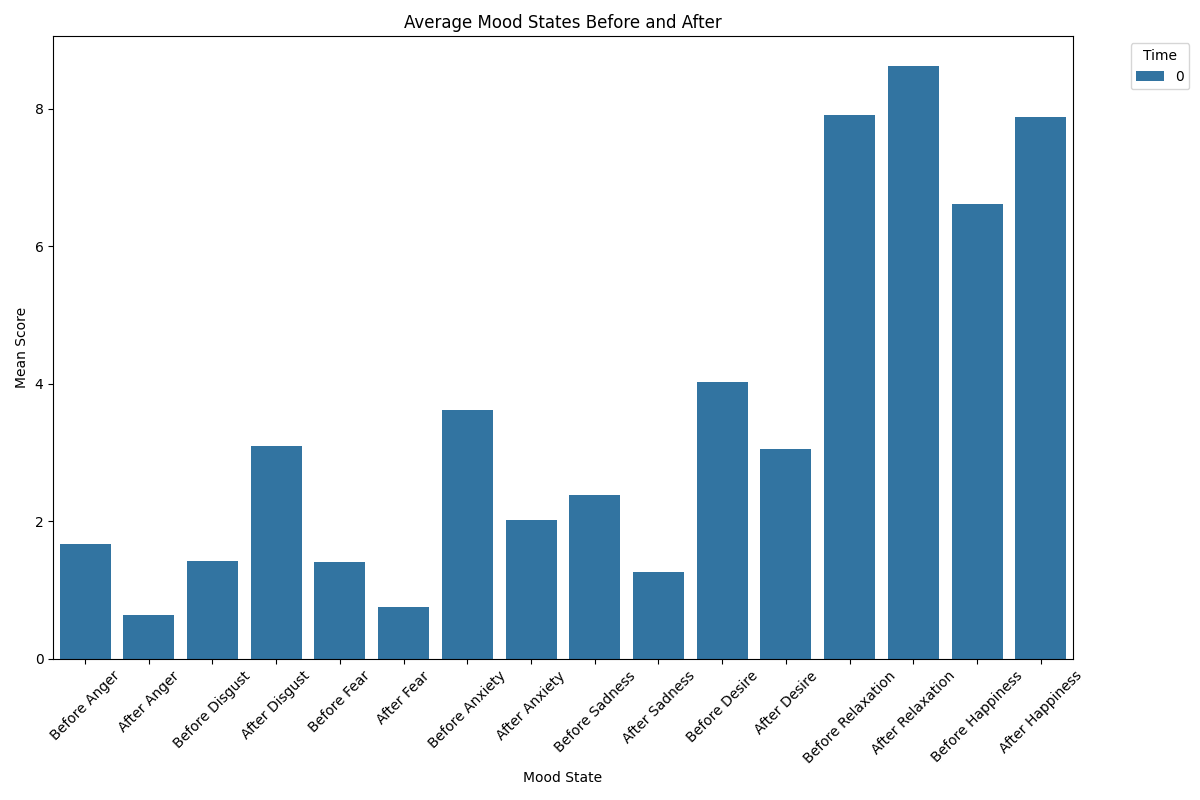
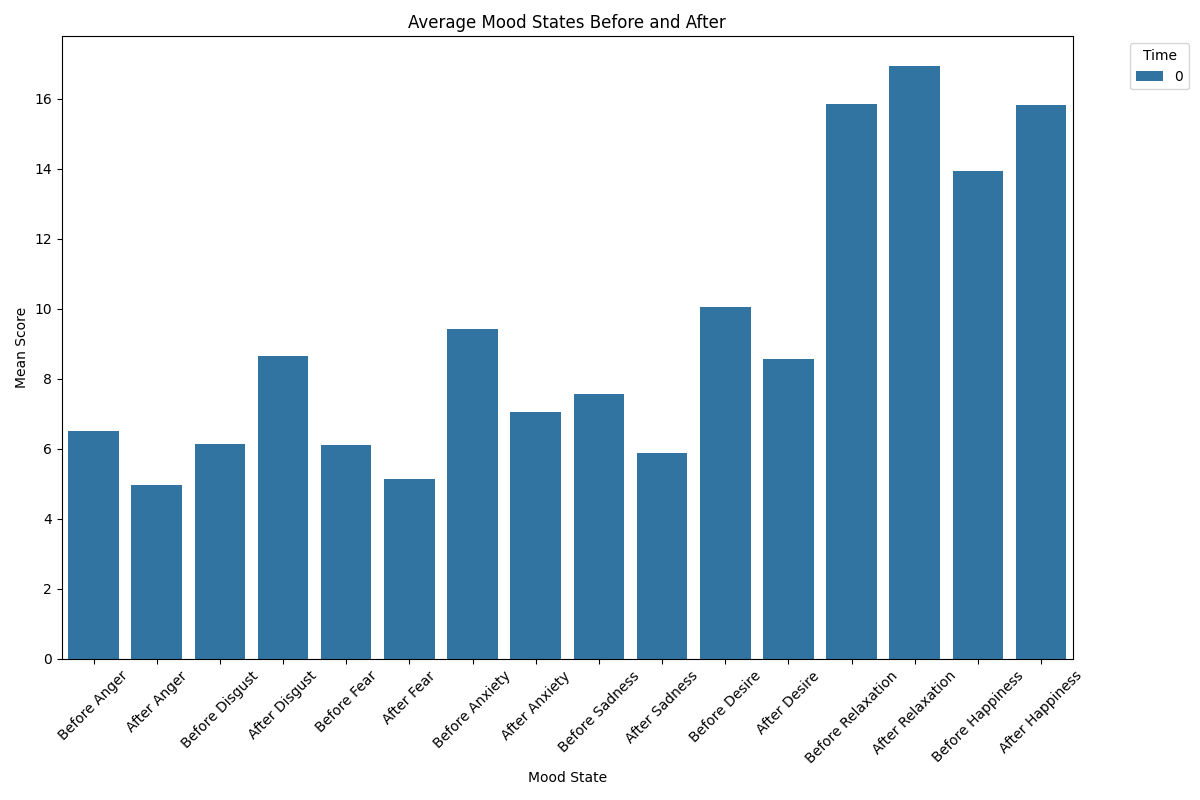
update

diff --git a/POMS/transform_scores.py b/POMS/transform_scores.py
@@ -17,36 +17,21 @@ def convert_poms_values(value):
         return value 
     
 def convert_deq_values(value):
-    print("Input value:", value)
     if value ==  "Not at all":
-        return 0
-    elif value == "Slightly":
         return 1
+    elif value == "Slightly":
+        return 2.5
     elif value == "Moderatly":
-        return 2
-    elif value == "Quite a bit":
-        return 3
-    elif value == "Very much":
         return 4
+    elif value == "Quite a bit":
+        return 5.5
+    elif value == "Very much":
+        return 7
     else:
-        print("Unexpected value:", value)
         return value
 
-def convert_psq_values(value):
-    if value == "Almost never ":
-        return 0
-    elif value == "Rarely":
-        return 1
-    elif value == "Sometimes":
-        return 2
-    elif value == "Often":
-        return 3
-    elif value == "Always":
-        return 4
-    else:
-        return int(value)
 
-    
+
 
 # Function to convert poms values
 def convert_poms_columns(df):
@@ -60,13 +45,6 @@ def convert_deq_columns(df):
     for column in df.columns:
         if "DEQ Before >>" in column or "DEQ After >>" in column:
             df[column] = df[column].apply(convert_deq_values)
-    return df
-
-# Function to convert psq values
-def convert_psq_columns(df):
-    for column in df.columns:
-        if "PSQ20 >>" in column:
-            df[column] = df[column].apply(convert_psq_values)
     return df
 
 
@@ -149,42 +127,6 @@ def calculate_deq_scores(df):
     
     return participant_scores_deq
 
-# Function to calculate score with mapping psq
-def calculate_psq_scores(df):
-    score_mappings = {
-        'Worries': ['You fear you may not manage to attain your goals', 'You feel frustrated', 'Your problems seem to be piling up', 'You have many worries', 'You are afraid for the future'],
-        'Tension': ['You feel rested', 'You feel calm', 'You feel tense', 'You feel mentally exhausted', 'You have trouble relaxing'],
-        'Joy': ['You feel you’re doing things you really like', 'You are full of energy', 'You feel safe and protected', 'You enjoy yourself', 'You are lighthearted'],
-        'Demands': ['You feel that too many demands are being made on you', 'You have too many things to do', 'You feel you’re in a hurry', 'You have enough time for yourself', 'You feel under pressure from deadlines']
-    }
-    
-    # Seperate data to store before and after scores 
-    participant_scores_psq = pd.DataFrame(columns=['Participant', 'Condition', 
-                                                    'Worries', 'Tension', 
-                                                    'Joy', 'Demands'])
-
-    print("Columns before assignment:")
-    print(participant_scores_psq.columns)
-    
-    # Loop through participants and calculate scores
-    for index, participant in df.iterrows():
-        # Score calculation logic
-        print("Columns after assignment:")
-        print(participant_scores_psq.columns)
-
-    for index, participant in df.iterrows():
-        participant_scores_psq.loc[index] = [index + 1, participant['Condition']] + [0] * (len(participant_scores_psq.columns) - 2)
-            
-        for score, mood_states in score_mappings.items():
-            mood_state_score = 0
-
-            for col in df.columns:
-                if "PSQ20 >>" in col and col.split(" >> ")[1] in mood_states:
-                    mood_state_score+= convert_psq_values(participant[col])
-            participant_scores_psq.at[index, f' {score}'] = mood_state_score
-
-    
-    return participant_scores_psq
 
 folder_path = 'POMS'
 input_file = 'questionnaire.csv'
@@ -194,18 +136,15 @@ data = pd.read_csv(file_path)
 
 converted_data = convert_poms_columns(data)
 converted_data2 = convert_deq_columns(data)
-converted_data3 = convert_psq_columns(data)
 
 participant_scores = calculate_poms_scores(converted_data)
 participant_scores_deq = calculate_deq_scores(converted_data2)
-participant_scores_psq = calculate_psq_scores(converted_data3)
 
 output_file = 'POMS/participant_scores.csv'
 output_file2 = 'POMS/participant_scores_deq.csv'
 output_file3 = 'POMS/participant_scores_psq.csv'
 participant_scores.to_csv(output_file, index=False)
 participant_scores_deq.to_csv(output_file2, index=False)
-participant_scores_psq.to_csv(output_file3, index=False)
 
 print("Participant scores saved to:", output_file)
 
